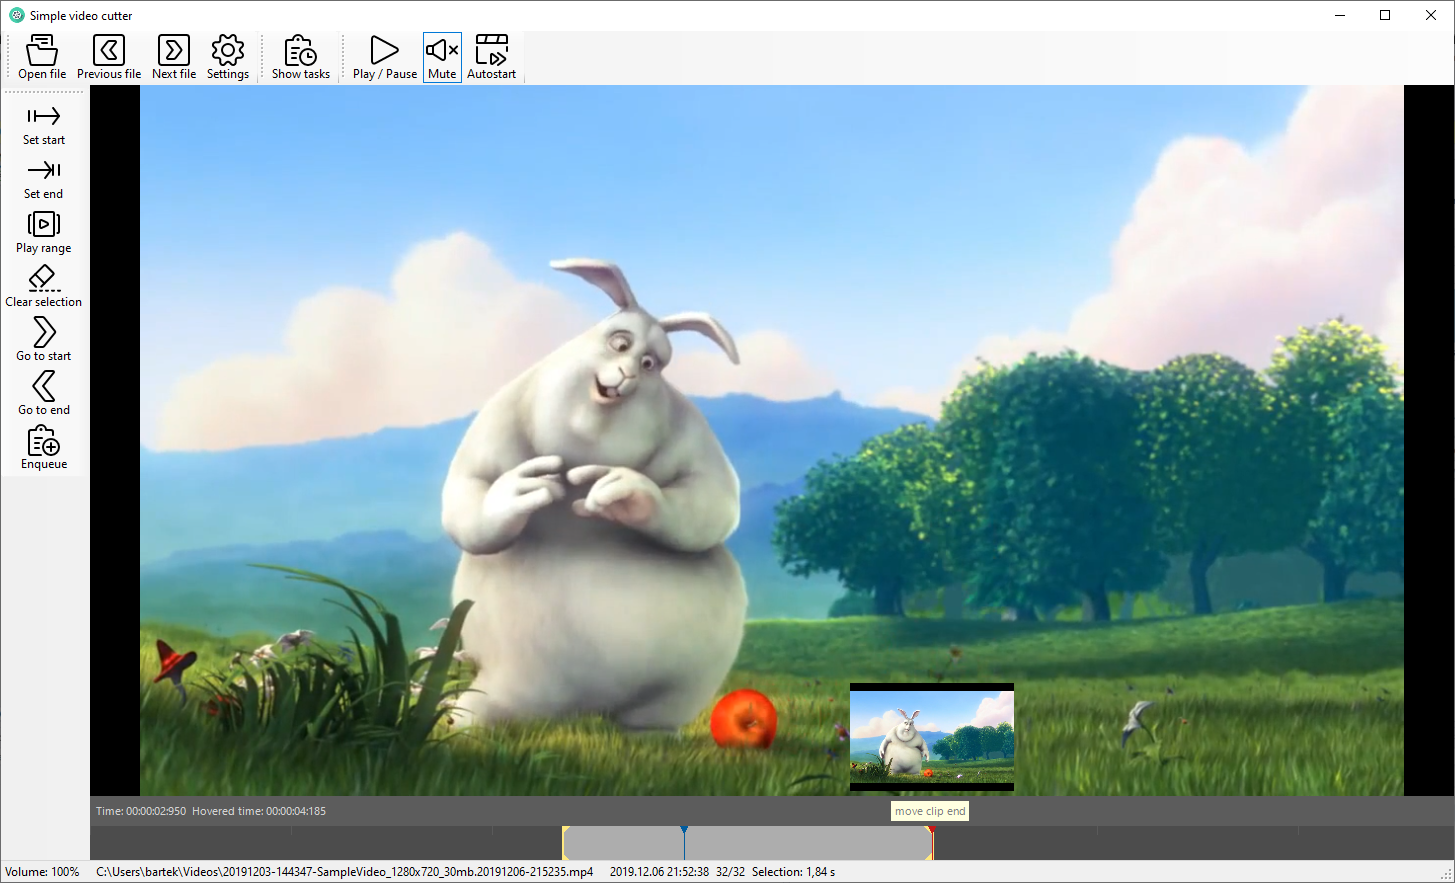
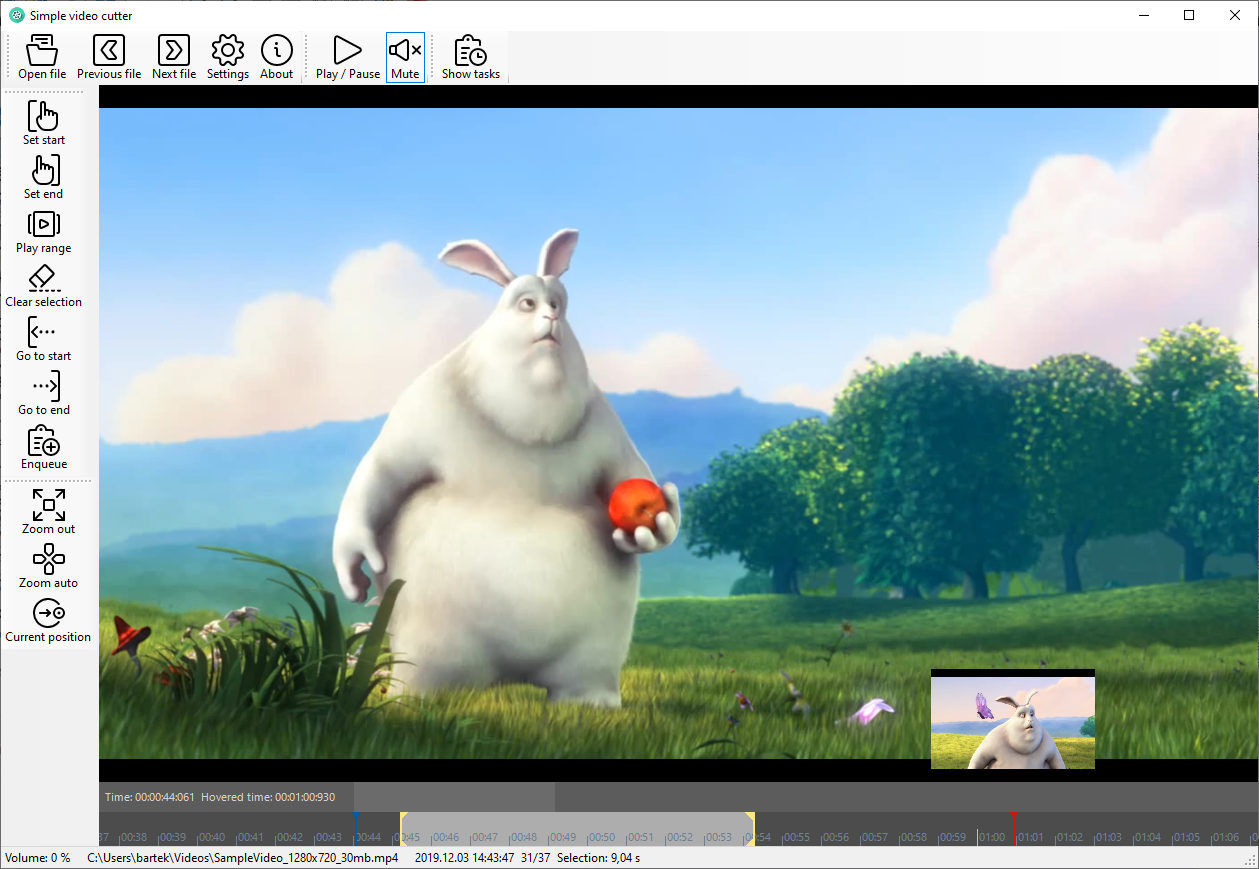
Final changes for the 0.10 release

diff --git a/src/SimpleVideoCutter/MainForm.Designer.cs b/src/SimpleVideoCutter/MainForm.Designer.cs
@@ -42,6 +42,7 @@
             this.timerHoverPositionChanged = new System.Windows.Forms.Timer(this.components);
             this.toolStripContainer1 = new System.Windows.Forms.ToolStripContainer();
             this.splitContainer1 = new System.Windows.Forms.SplitContainer();
+            this.videoCutterTimeline1 = new SimpleVideoCutter.VideoCutterTimeline();
             this.panelTasks = new System.Windows.Forms.Panel();
             this.listViewTasks = new System.Windows.Forms.ListView();
             this.columnFilename = ((System.Windows.Forms.ColumnHeader)(new System.Windows.Forms.ColumnHeader()));
@@ -49,9 +50,9 @@
             this.labelTasks = new System.Windows.Forms.Label();
             this.labelProgress = new System.Windows.Forms.Label();
             this.toolStripSelection = new System.Windows.Forms.ToolStrip();
-            this.toolStripFile = new System.Windows.Forms.ToolStrip();
-            this.toolStripPlayback = new System.Windows.Forms.ToolStrip();
             this.toolStripTimeline = new System.Windows.Forms.ToolStrip();
+            this.toolStripPlayback = new System.Windows.Forms.ToolStrip();
+            this.toolStripFile = new System.Windows.Forms.ToolStrip();
             this.toolStripButtonSelectionSetStart = new System.Windows.Forms.ToolStripButton();
             this.toolStripButtonSelectionSetEnd = new System.Windows.Forms.ToolStripButton();
             this.toolStripButtonSelectionPlay = new System.Windows.Forms.ToolStripButton();
@@ -70,7 +71,6 @@
             this.toolStripButtonFileNext = new System.Windows.Forms.ToolStripButton();
             this.toolStripButtonFileSettings = new System.Windows.Forms.ToolStripButton();
             this.toolStripButtonFileAbout = new System.Windows.Forms.ToolStripButton();
-            this.videoCutterTimeline1 = new SimpleVideoCutter.VideoCutterTimeline();
             this.toolStripTasks.SuspendLayout();
             ((System.ComponentModel.ISupportInitialize)(this.videoViewHover)).BeginInit();
             ((System.ComponentModel.ISupportInitialize)(this.vlcControl1)).BeginInit();
@@ -85,9 +85,9 @@
             this.splitContainer1.SuspendLayout();
             this.panelTasks.SuspendLayout();
             this.toolStripSelection.SuspendLayout();
-            this.toolStripFile.SuspendLayout();
-            this.toolStripPlayback.SuspendLayout();
             this.toolStripTimeline.SuspendLayout();
+            this.toolStripPlayback.SuspendLayout();
+            this.toolStripFile.SuspendLayout();
             this.SuspendLayout();
             // 
             // toolStripTasks
@@ -98,7 +98,7 @@
             this.toolStripButtonTasksShow});
             this.toolStripTasks.Location = new System.Drawing.Point(427, 0);
             this.toolStripTasks.Name = "toolStripTasks";
-            this.toolStripTasks.Size = new System.Drawing.Size(81, 54);
+            this.toolStripTasks.Size = new System.Drawing.Size(112, 54);
             this.toolStripTasks.TabIndex = 5;
             this.toolStripTasks.Text = "Tasks";
             // 
@@ -222,6 +222,18 @@
             this.splitContainer1.SplitterDistance = 597;
             this.splitContainer1.TabIndex = 7;
             // 
+            // videoCutterTimeline1
+            // 
+            this.videoCutterTimeline1.Dock = System.Windows.Forms.DockStyle.Bottom;
+            this.videoCutterTimeline1.Font = new System.Drawing.Font("Segoe UI", 8.25F, System.Drawing.FontStyle.Regular, System.Drawing.GraphicsUnit.Point, ((byte)(238)));
+            this.videoCutterTimeline1.HoverPosition = null;
+            this.videoCutterTimeline1.Length = ((long)(0));
+            this.videoCutterTimeline1.Location = new System.Drawing.Point(0, 521);
+            this.videoCutterTimeline1.Name = "videoCutterTimeline1";
+            this.videoCutterTimeline1.Position = ((long)(0));
+            this.videoCutterTimeline1.Size = new System.Drawing.Size(886, 64);
+            this.videoCutterTimeline1.TabIndex = 4;
+            // 
             // panelTasks
             // 
             this.panelTasks.Controls.Add(this.listViewTasks);
@@ -230,7 +242,7 @@
             this.panelTasks.Dock = System.Windows.Forms.DockStyle.Fill;
             this.panelTasks.Location = new System.Drawing.Point(0, 0);
             this.panelTasks.Name = "panelTasks";
-            this.panelTasks.Size = new System.Drawing.Size(285, 585);
+            this.panelTasks.Size = new System.Drawing.Size(96, 100);
             this.panelTasks.TabIndex = 6;
             // 
             // listViewTasks
@@ -243,7 +255,7 @@
             this.listViewTasks.HideSelection = false;
             this.listViewTasks.Location = new System.Drawing.Point(0, 13);
             this.listViewTasks.Name = "listViewTasks";
-            this.listViewTasks.Size = new System.Drawing.Size(285, 559);
+            this.listViewTasks.Size = new System.Drawing.Size(96, 74);
             this.listViewTasks.TabIndex = 1;
             this.listViewTasks.UseCompatibleStateImageBehavior = false;
             this.listViewTasks.View = System.Windows.Forms.View.Details;
@@ -272,7 +284,7 @@
             // 
             this.labelProgress.AutoSize = true;
             this.labelProgress.Dock = System.Windows.Forms.DockStyle.Bottom;
-            this.labelProgress.Location = new System.Drawing.Point(0, 572);
+            this.labelProgress.Location = new System.Drawing.Point(0, 87);
             this.labelProgress.Name = "labelProgress";
             this.labelProgress.Size = new System.Drawing.Size(0, 13);
             this.labelProgress.TabIndex = 2;
@@ -297,6 +309,34 @@
             this.toolStripSelection.Text = "Selection";
             this.toolStripSelection.ItemClicked += new System.Windows.Forms.ToolStripItemClickedEventHandler(this.toolStripSelection_ItemClicked);
             // 
+            // toolStripTimeline
+            // 
+            this.toolStripTimeline.Dock = System.Windows.Forms.DockStyle.None;
+            this.toolStripTimeline.ImageScalingSize = new System.Drawing.Size(32, 32);
+            this.toolStripTimeline.Items.AddRange(new System.Windows.Forms.ToolStripItem[] {
+            this.toolStripButtonTimelineZoomOut,
+            this.toolStripButtonTimelineZoomAuto,
+            this.toolStripButtonTimelineGoToCurrentPosition});
+            this.toolStripTimeline.Location = new System.Drawing.Point(0, 392);
+            this.toolStripTimeline.Name = "toolStripTimeline";
+            this.toolStripTimeline.Size = new System.Drawing.Size(98, 173);
+            this.toolStripTimeline.TabIndex = 21;
+            this.toolStripTimeline.ItemClicked += new System.Windows.Forms.ToolStripItemClickedEventHandler(this.toolStripTimeline_ItemClicked);
+            // 
+            // toolStripPlayback
+            // 
+            this.toolStripPlayback.Dock = System.Windows.Forms.DockStyle.None;
+            this.toolStripPlayback.ImageScalingSize = new System.Drawing.Size(32, 32);
+            this.toolStripPlayback.Items.AddRange(new System.Windows.Forms.ToolStripItem[] {
+            this.toolStripButtonPlabackPlayPause,
+            this.toolStripButtonPlabackMute});
+            this.toolStripPlayback.Location = new System.Drawing.Point(301, 0);
+            this.toolStripPlayback.Name = "toolStripPlayback";
+            this.toolStripPlayback.Size = new System.Drawing.Size(126, 54);
+            this.toolStripPlayback.TabIndex = 7;
+            this.toolStripPlayback.Text = "toolStrip2";
+            this.toolStripPlayback.ItemClicked += new System.Windows.Forms.ToolStripItemClickedEventHandler(this.toolStripPlayback_ItemClicked);
+            // 
             // toolStripFile
             // 
             this.toolStripFile.Dock = System.Windows.Forms.DockStyle.None;
@@ -314,37 +354,9 @@
             this.toolStripFile.Text = "File";
             this.toolStripFile.ItemClicked += new System.Windows.Forms.ToolStripItemClickedEventHandler(this.toolStripFile_ItemClicked);
             // 
-            // toolStripPlayback
-            // 
-            this.toolStripPlayback.Dock = System.Windows.Forms.DockStyle.None;
-            this.toolStripPlayback.ImageScalingSize = new System.Drawing.Size(32, 32);
-            this.toolStripPlayback.Items.AddRange(new System.Windows.Forms.ToolStripItem[] {
-            this.toolStripButtonPlabackPlayPause,
-            this.toolStripButtonPlabackMute});
-            this.toolStripPlayback.Location = new System.Drawing.Point(301, 0);
-            this.toolStripPlayback.Name = "toolStripPlayback";
-            this.toolStripPlayback.Size = new System.Drawing.Size(126, 54);
-            this.toolStripPlayback.TabIndex = 7;
-            this.toolStripPlayback.Text = "toolStrip2";
-            this.toolStripPlayback.ItemClicked += new System.Windows.Forms.ToolStripItemClickedEventHandler(this.toolStripPlayback_ItemClicked);
-            // 
-            // toolStripTimeline
-            // 
-            this.toolStripTimeline.Dock = System.Windows.Forms.DockStyle.None;
-            this.toolStripTimeline.ImageScalingSize = new System.Drawing.Size(32, 32);
-            this.toolStripTimeline.Items.AddRange(new System.Windows.Forms.ToolStripItem[] {
-            this.toolStripButtonTimelineZoomOut,
-            this.toolStripButtonTimelineZoomAuto,
-            this.toolStripButtonTimelineGoToCurrentPosition});
-            this.toolStripTimeline.Location = new System.Drawing.Point(0, 392);
-            this.toolStripTimeline.Name = "toolStripTimeline";
-            this.toolStripTimeline.Size = new System.Drawing.Size(98, 192);
-            this.toolStripTimeline.TabIndex = 21;
-            this.toolStripTimeline.ItemClicked += new System.Windows.Forms.ToolStripItemClickedEventHandler(this.toolStripTimeline_ItemClicked);
-            // 
             // toolStripButtonSelectionSetStart
             // 
-            this.toolStripButtonSelectionSetStart.Image = global::SimpleVideoCutter.Properties.Resources.streamline_icon_navigation_right_3_32x32;
+            this.toolStripButtonSelectionSetStart.Image = global::SimpleVideoCutter.Properties.Resources.streamline_icon_set_start_32x32;
             this.toolStripButtonSelectionSetStart.ImageTransparentColor = System.Drawing.Color.Magenta;
             this.toolStripButtonSelectionSetStart.Name = "toolStripButtonSelectionSetStart";
             this.toolStripButtonSelectionSetStart.Size = new System.Drawing.Size(87, 51);
@@ -354,7 +366,7 @@
             // 
             // toolStripButtonSelectionSetEnd
             // 
-            this.toolStripButtonSelectionSetEnd.Image = global::SimpleVideoCutter.Properties.Resources.streamline_icon_navigation_right_to_32x32;
+            this.toolStripButtonSelectionSetEnd.Image = global::SimpleVideoCutter.Properties.Resources.streamline_icon_set_end_32x32;
             this.toolStripButtonSelectionSetEnd.ImageTransparentColor = System.Drawing.Color.Magenta;
             this.toolStripButtonSelectionSetEnd.Name = "toolStripButtonSelectionSetEnd";
             this.toolStripButtonSelectionSetEnd.Size = new System.Drawing.Size(87, 51);
@@ -384,17 +396,17 @@
             // 
             // toolStripButtonSelectionGoToStart
             // 
-            this.toolStripButtonSelectionGoToStart.Image = global::SimpleVideoCutter.Properties.Resources.streamline_icon_arrow_button_right_3_32x32;
+            this.toolStripButtonSelectionGoToStart.Image = global::SimpleVideoCutter.Properties.Resources.streamline_icon_go_to_start_32x321;
             this.toolStripButtonSelectionGoToStart.ImageTransparentColor = System.Drawing.Color.Magenta;
             this.toolStripButtonSelectionGoToStart.Name = "toolStripButtonSelectionGoToStart";
             this.toolStripButtonSelectionGoToStart.Size = new System.Drawing.Size(87, 51);
             this.toolStripButtonSelectionGoToStart.Text = "Go to start";
             this.toolStripButtonSelectionGoToStart.TextImageRelation = System.Windows.Forms.TextImageRelation.ImageAboveText;
-            this.toolStripButtonSelectionGoToStart.ToolTipText = "Go to selection start ( Ctrl+[ }";
+            this.toolStripButtonSelectionGoToStart.ToolTipText = "Go to selection start ( Ctrl+[ )";
             // 
             // toolStripButtonSelectionGoToEnd
             // 
-            this.toolStripButtonSelectionGoToEnd.Image = global::SimpleVideoCutter.Properties.Resources.streamline_icon_arrow_button_left_3_32x32;
+            this.toolStripButtonSelectionGoToEnd.Image = global::SimpleVideoCutter.Properties.Resources.streamline_icon_go_to_end_32x32;
             this.toolStripButtonSelectionGoToEnd.ImageTransparentColor = System.Drawing.Color.Magenta;
             this.toolStripButtonSelectionGoToEnd.Name = "toolStripButtonSelectionGoToEnd";
             this.toolStripButtonSelectionGoToEnd.Size = new System.Drawing.Size(87, 51);
@@ -522,18 +534,6 @@
             this.toolStripButtonFileAbout.Text = "About";
             this.toolStripButtonFileAbout.TextImageRelation = System.Windows.Forms.TextImageRelation.ImageAboveText;
             // 
-            // videoCutterTimeline1
-            // 
-            this.videoCutterTimeline1.Dock = System.Windows.Forms.DockStyle.Bottom;
-            this.videoCutterTimeline1.Font = new System.Drawing.Font("Segoe UI", 8.25F, System.Drawing.FontStyle.Regular, System.Drawing.GraphicsUnit.Point, ((byte)(238)));
-            this.videoCutterTimeline1.HoverPosition = null;
-            this.videoCutterTimeline1.Length = ((long)(0));
-            this.videoCutterTimeline1.Location = new System.Drawing.Point(0, 521);
-            this.videoCutterTimeline1.Name = "videoCutterTimeline1";
-            this.videoCutterTimeline1.Position = ((long)(0));
-            this.videoCutterTimeline1.Size = new System.Drawing.Size(886, 64);
-            this.videoCutterTimeline1.TabIndex = 4;
-            // 
             // MainForm
             // 
             this.AutoScaleDimensions = new System.Drawing.SizeF(6F, 13F);
@@ -571,12 +571,12 @@
             this.panelTasks.PerformLayout();
             this.toolStripSelection.ResumeLayout(false);
             this.toolStripSelection.PerformLayout();
-            this.toolStripFile.ResumeLayout(false);
-            this.toolStripFile.PerformLayout();
-            this.toolStripPlayback.ResumeLayout(false);
-            this.toolStripPlayback.PerformLayout();
             this.toolStripTimeline.ResumeLayout(false);
             this.toolStripTimeline.PerformLayout();
+            this.toolStripPlayback.ResumeLayout(false);
+            this.toolStripPlayback.PerformLayout();
+            this.toolStripFile.ResumeLayout(false);
+            this.toolStripFile.PerformLayout();
             this.ResumeLayout(false);
             this.PerformLayout();
 

diff --git a/src/SimpleVideoCutter/Properties/Resources.Designer.cs b/src/SimpleVideoCutter/Properties/Resources.Designer.cs
@@ -363,6 +363,36 @@ namespace SimpleVideoCutter.Properties {
         /// <summary>
         ///   Looks up a localized resource of type System.Drawing.Bitmap.
         /// </summary>
+        internal static System.Drawing.Bitmap streamline_icon_go_to_end_32x32 {
+            get {
+                object obj = ResourceManager.GetObject("streamline-icon-go-to-end@32x32", resourceCulture);
+                return ((System.Drawing.Bitmap)(obj));
+            }
+        }
+        
+        /// <summary>
+        ///   Looks up a localized resource of type System.Drawing.Bitmap.
+        /// </summary>
+        internal static System.Drawing.Bitmap streamline_icon_go_to_start_32x32 {
+            get {
+                object obj = ResourceManager.GetObject("streamline-icon-go-to-start@32x32", resourceCulture);
+                return ((System.Drawing.Bitmap)(obj));
+            }
+        }
+        
+        /// <summary>
+        ///   Looks up a localized resource of type System.Drawing.Bitmap.
+        /// </summary>
+        internal static System.Drawing.Bitmap streamline_icon_go_to_start_32x321 {
+            get {
+                object obj = ResourceManager.GetObject("streamline-icon-go-to-start@32x321", resourceCulture);
+                return ((System.Drawing.Bitmap)(obj));
+            }
+        }
+        
+        /// <summary>
+        ///   Looks up a localized resource of type System.Drawing.Bitmap.
+        /// </summary>
         internal static System.Drawing.Bitmap streamline_icon_information_circle_32x32 {
             get {
                 object obj = ResourceManager.GetObject("streamline-icon-information-circle@32x32", resourceCulture);
@@ -396,6 +426,26 @@ namespace SimpleVideoCutter.Properties {
         internal static System.Drawing.Bitmap streamline_icon_navigation_right_to_32x32 {
             get {
                 object obj = ResourceManager.GetObject("streamline-icon-navigation-right-to@32x32", resourceCulture);
+                return ((System.Drawing.Bitmap)(obj));
+            }
+        }
+        
+        /// <summary>
+        ///   Looks up a localized resource of type System.Drawing.Bitmap.
+        /// </summary>
+        internal static System.Drawing.Bitmap streamline_icon_set_end_32x32 {
+            get {
+                object obj = ResourceManager.GetObject("streamline-icon-set-end@32x32", resourceCulture);
+                return ((System.Drawing.Bitmap)(obj));
+            }
+        }
+        
+        /// <summary>
+        ///   Looks up a localized resource of type System.Drawing.Bitmap.
+        /// </summary>
+        internal static System.Drawing.Bitmap streamline_icon_set_start_32x32 {
+            get {
+                object obj = ResourceManager.GetObject("streamline-icon-set-start@32x32", resourceCulture);
                 return ((System.Drawing.Bitmap)(obj));
             }
         }

diff --git a/src/SimpleVideoCutter/VideoCutterTimeline.cs b/src/SimpleVideoCutter/VideoCutterTimeline.cs
@@ -280,8 +280,8 @@ namespace SimpleVideoCutter
                 }
 
                 var positionPixel = PositionToPixel(Position);
-                PaintTriangle(e.Graphics, brushPosition, positionPixel, 8, 8);
-                e.Graphics.FillRectangle(brushPosition, positionPixel, 0, 1, timeLineHeight);
+                PaintTriangle(e.Graphics, brushPosition, positionPixel+1, 8, 8);
+                e.Graphics.FillRectangle(brushPosition, positionPixel, 0, 2, timeLineHeight);
 
 
 
@@ -300,8 +300,8 @@ namespace SimpleVideoCutter
 
 
 
-                    e.Graphics.FillRectangle(brushHoverPosition, pixel, 0, 1, timeLineHeight);
-                    PaintTriangle(e.Graphics, brushHoverPosition, PositionToPixel(HoverPosition), 8, 8);
+                    e.Graphics.FillRectangle(brushHoverPosition, pixel, 0, 2, timeLineHeight);
+                    PaintTriangle(e.Graphics, brushHoverPosition, PositionToPixel(HoverPosition)+1, 8, 8);
 
                     if (SelectionStart == null)
                     {
@@ -434,21 +434,14 @@ namespace SimpleVideoCutter
         
         public void GoToCurrentPosition()
         {
-            if (Length > 0)
-            {
-                offset = Position;
-                EnsureOffsetInBounds();
-            }
-            
-            this.InvokeIfRequired( () => {
-                Refresh();
-            });
+            GoToPosition(Position);
         }
+
         public void GoToPosition(long position)
         {
             if (Length > 0)
             {
-                offset = position;
+                offset = position - (long)MillisecondsPerPixels() * (ClientSize.Width / 2);
                 EnsureOffsetInBounds();
             }
 
